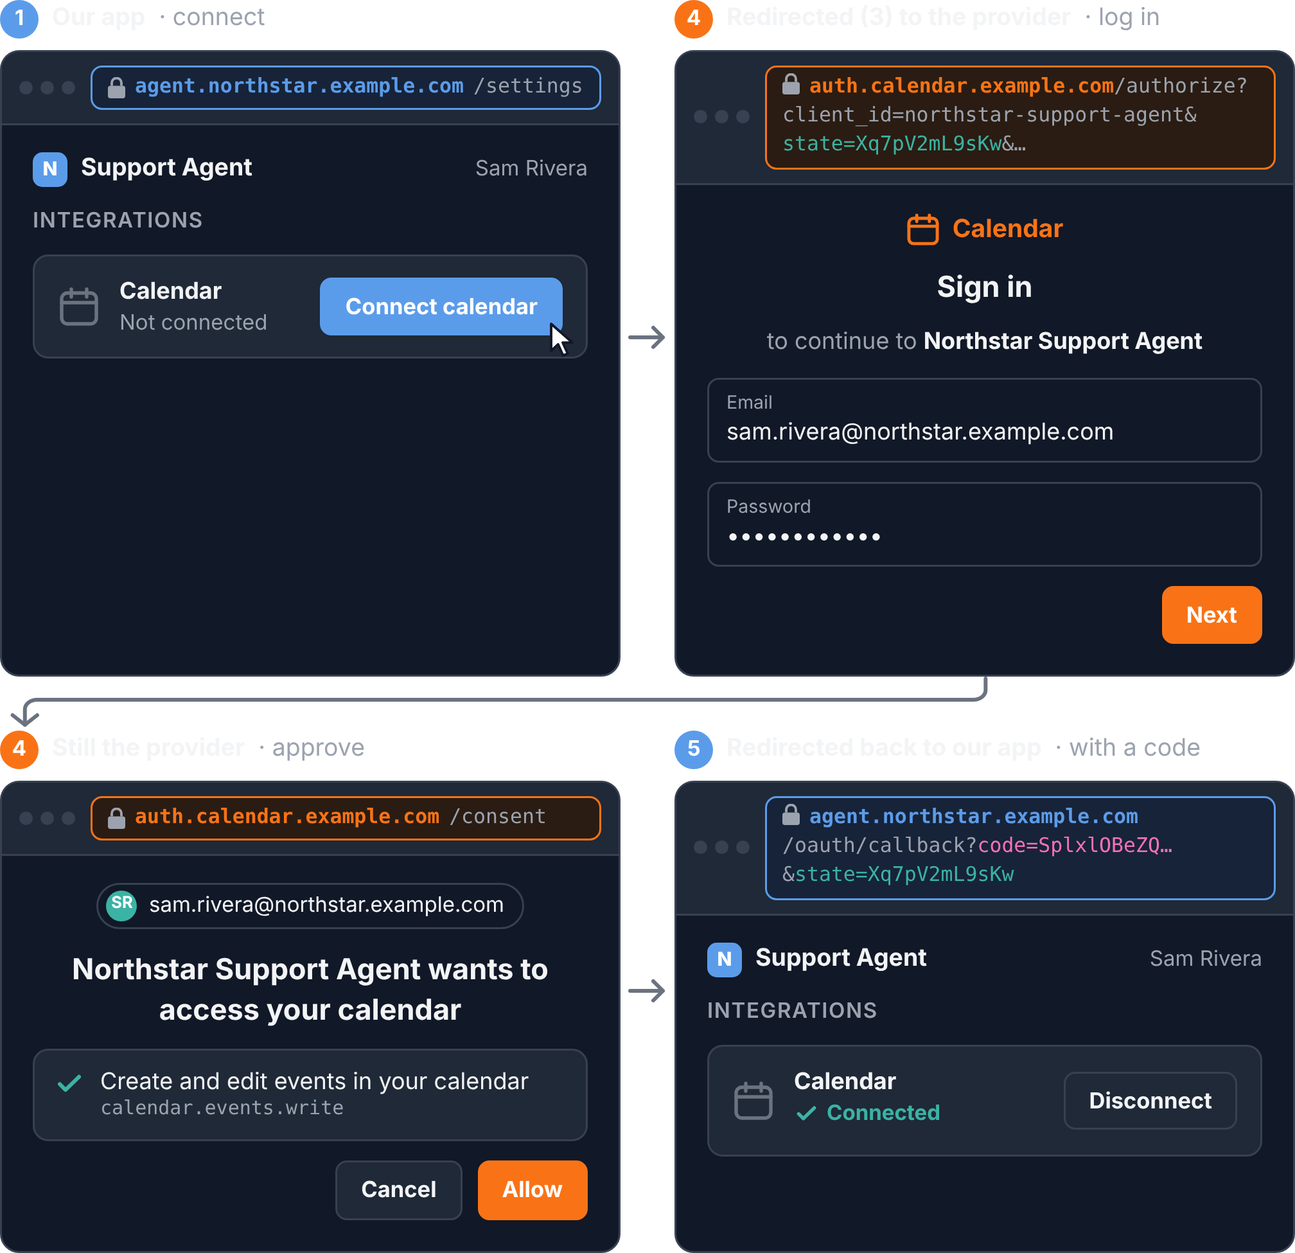
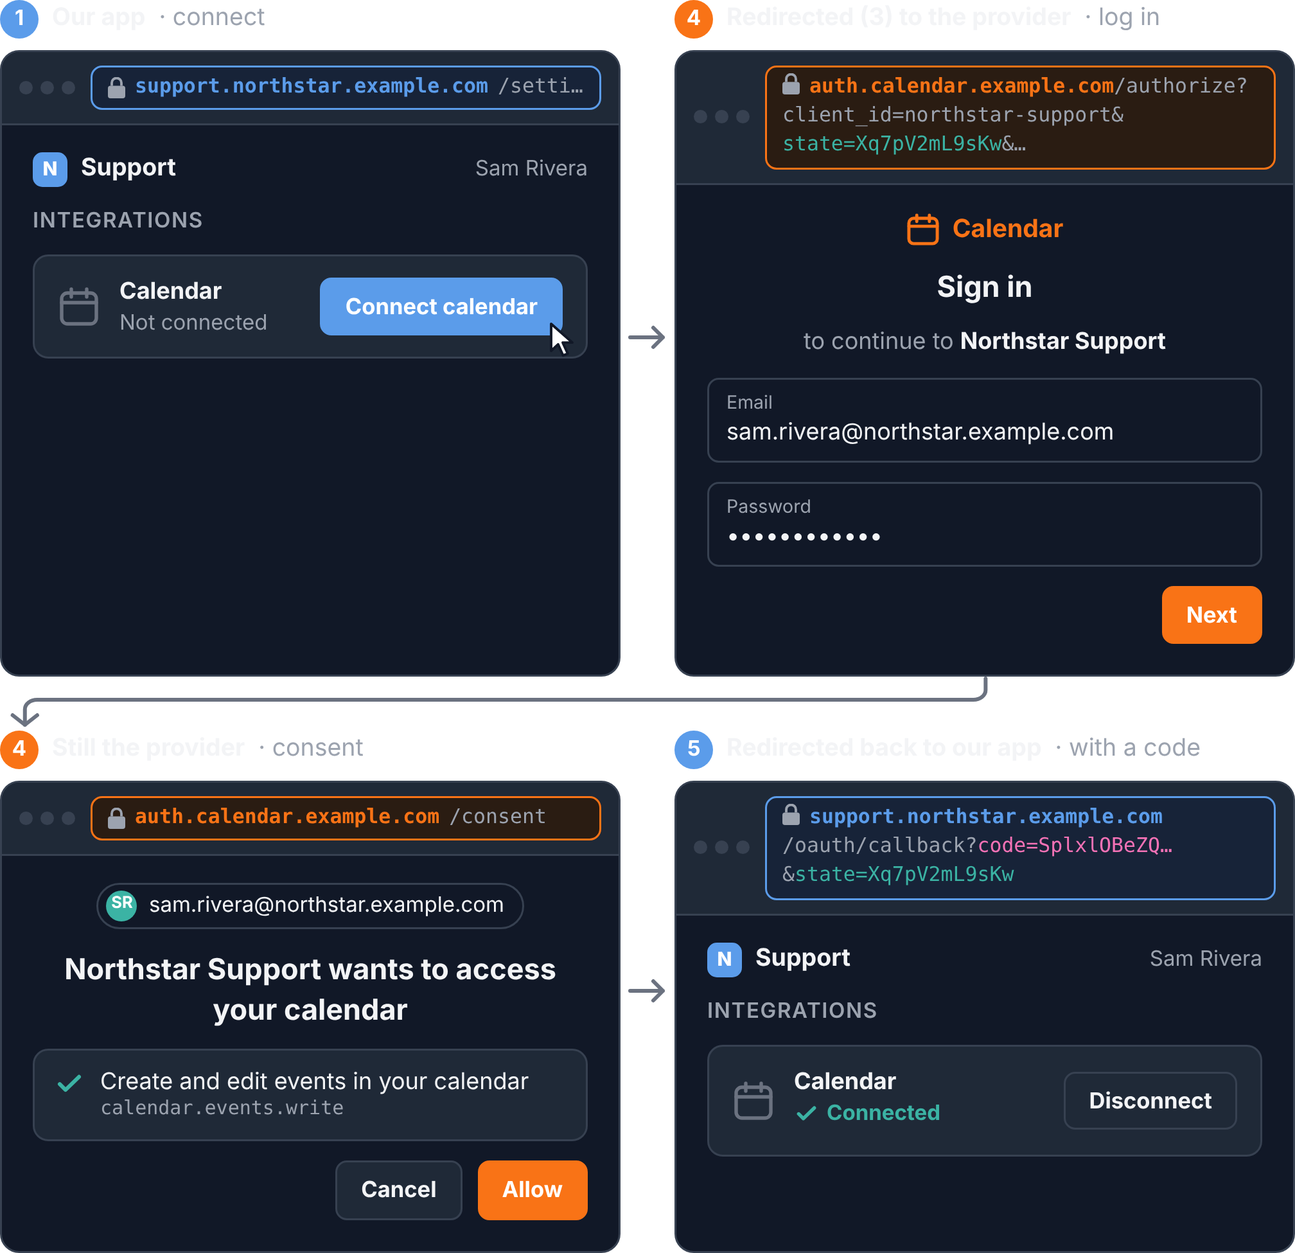
API auth post: one app as the caller instead of an agent (#352)
The agent added only one point, that the model never sees a credential,
and that belongs in the MCP follow-up. With one caller, our app, the post
needs no model/tools/app split.

Claude-Session: https://claude.ai/code/session_0197XX8Z68zqkfbQezN8rpHx

diff --git a/src/components/AuthMap.tsx b/src/components/AuthMap.tsx
@@ -1,9 +1,8 @@
 /**
- * The running example of api-keys-oauth-jwt as one top-to-bottom map: the
- * model (the LLM inside the support agent) picks a tool and its arguments, the tools (code)
- * hold the secrets and attach a credential to each call, and the calls go to
- * three systems, each authenticated its own way: the ticketing system by API
- * key, the CRM by an OAuth access token that is a JWT, and an advisor's
+ * The running example of api-keys-oauth-jwt as one top-to-bottom map: our
+ * app holds the secrets and attaches a credential to each call, and the calls
+ * go to three systems, each authenticated its own way: the ticketing system by
+ * API key, the CRM by an OAuth access token that is a JWT, and an advisor's
  * calendar by a token the advisor consented to.
  *
  * Each section of the post shows the same map with its part highlighted and
@@ -12,13 +11,13 @@
  * the server, no JavaScript.
  */
 import type { ReactNode } from 'react';
-import { color, Agent, Store, type Point } from '../remotion/shared';
+import { color, Store, type Point } from '../remotion/shared';
 import { Dim, Tag, ArrowMarker } from './map-parts';
 
-type NodeId = 'agent' | 'tools' | 'ticketing' | 'crm' | 'calendar';
+type NodeId = 'app' | 'ticketing' | 'crm' | 'calendar';
 type SystemId = Extract<NodeId, 'ticketing' | 'crm' | 'calendar'>;
-/** Who a box belongs to, which sets its outline: the model, our code, or someone else's system. */
-type Role = 'model' | 'code' | 'external';
+/** Who a box belongs to, which sets its outline: our code, or someone else's system. */
+type Role = 'code' | 'external';
 
 export interface Preset {
   /** Parts drawn at full strength; everything else is greyed out. Empty means everything. */
@@ -32,22 +31,22 @@ export const PRESETS = {
   overview: {
     focus: [],
     description:
-      'The running example as one map: the model, an LLM, picks a tool and its arguments. The tools, code, hold the secrets and attach a credential to each call: an API key for the ticketing system, an OAuth access token for the CRM, and a token the advisor consented to for the calendar.',
+      'The running example as one map: our app holds the secrets and attaches a credential to each call: an API key for the ticketing system, an OAuth access token for the CRM, and a token the advisor consented to for the calendar.',
   },
   'api-key': {
-    focus: ['tools', 'ticketing'],
+    focus: ['app', 'ticketing'],
     tags: [{ on: 'ticketing', text: 'Static' }],
     description: 'Highlighted: the ticketing system, which takes the same API key on every call until someone rotates it.',
   },
   'client-credentials': {
-    focus: ['tools', 'crm'],
+    focus: ['app', 'crm'],
     tags: [{ on: 'crm', text: 'One hour' }],
-    description: 'Highlighted: the CRM. The tools trade the client secret for an access token at its auth server, and send the token with every call for the hour it lives.',
+    description: 'Highlighted: the CRM. Our app trades the client secret for an access token at its auth server, and sends the token with every call for the hour it lives.',
   },
   'auth-code': {
-    focus: ['tools', 'calendar'],
+    focus: ['app', 'calendar'],
     tags: [{ on: 'calendar', text: 'Consent' }],
-    description: 'Highlighted: the calendar. The advisor consents once, and the tools keep a refresh token per advisor.',
+    description: 'Highlighted: the calendar. The advisor consents once, and our app keeps a refresh token per advisor.',
   },
   jwt: {
     focus: ['crm'],
@@ -55,23 +54,21 @@ export const PRESETS = {
     description: 'Highlighted: the CRM, whose API checks the access token, a JWT, on its own.',
   },
   errors: {
-    focus: ['tools', 'ticketing', 'crm', 'calendar'],
-    tags: [{ on: 'tools', text: 'Retry once' }],
-    description: 'Highlighted: the tools and the three systems, where a call fails with 401 or 403.',
+    focus: ['app', 'ticketing', 'crm', 'calendar'],
+    tags: [{ on: 'app', text: 'Retry once' }],
+    description: 'Highlighted: our app and the three systems, where a call fails with 401 or 403.',
   },
 } satisfies Record<string, Preset>;
 
 export type PresetName = keyof typeof PRESETS;
 
 const STROKE: Record<Role, string> = {
-  model: color('added'),
   code: color('node-border'),
   external: color('other'),
 };
 
 const NODES: Record<NodeId, { name: string; role: Role; detail: string[] }> = {
-  agent: { name: 'Model', role: 'model', detail: ['Picks a tool and its arguments'] },
-  tools: { name: 'Tools', role: 'code', detail: ['Hold the secrets', 'Attach one to each call'] },
+  app: { name: 'Our app', role: 'code', detail: ['Holds the secrets', 'Attaches one to each call'] },
   ticketing: { name: 'Ticketing system', role: 'external', detail: ['API key on every call', 'Valid until rotated'] },
   crm: { name: 'CRM', role: 'external', detail: ['Auth server: secret → token', 'API: checks the JWT itself'] },
   calendar: { name: 'Advisor’s calendar', role: 'external', detail: ['Advisor consents once', 'Refresh token per advisor'] },
@@ -111,9 +108,7 @@ const Calendar = ({ x, y }: Point) => (
 
 function NodeIcon({ id, at }: { id: NodeId; at: Point }): ReactNode {
   switch (id) {
-    case 'agent':
-      return <Agent {...at} scale={0.78} typing={1} />;
-    case 'tools':
+    case 'app':
       return <Store {...at} scale={0.62} />;
     case 'ticketing':
       return <Key {...at} />;
@@ -126,13 +121,13 @@ function NodeIcon({ id, at }: { id: NodeId; at: Point }): ReactNode {
 
 const W = 480;
 const PAD = 16;
-/** Boxes leave room on the left for the line from the tools to the three systems. */
+/** Boxes leave room on the left for the line from our app to the three systems. */
 const BOX = { x: 60, w: 404 };
 const TEXT_X = BOX.x + 84;
 const TITLE = 21;
 const DETAIL = 17;
 const GAP = 34;
-/** The line from the tools down to the systems, left of the boxes. */
+/** The line from our app down to the systems, left of the boxes. */
 const BUS_X = 28;
 
 export default function AuthMap({ preset, id }: { preset: PresetName; id: string }) {
@@ -141,12 +136,12 @@ export default function AuthMap({ preset, id }: { preset: PresetName; id: string
   const on = (n: NodeId) => all || p.focus.includes(n);
 
   let y = PAD + 14;
-  const order: NodeId[] = ['agent', 'tools', ...SYSTEMS];
+  const order: NodeId[] = ['app', ...SYSTEMS];
   const boxes = order.map((n, i) => {
     const h = 54 + NODES[n].detail.length * (DETAIL + 8);
     const b = { id: n, y, h };
     // The systems sit closer together: they hang off one line, not one after another.
-    y += h + (i < 2 ? GAP + 12 : 22);
+    y += h + (i < 1 ? GAP + 12 : 22);
     return b;
   });
   const height = y - 22 + PAD + 36;
@@ -162,19 +157,12 @@ export default function AuthMap({ preset, id }: { preset: PresetName; id: string
         <ArrowMarker id={marker} />
       </defs>
 
-      <Dim on={on('agent') && on('tools')} faded={0.3}>
-        <path d={`M${cx},${at.agent.y + at.agent.h} V${at.tools.y - 4}`} {...edge} markerEnd={`url(#${marker})`} />
-        <text x={cx + 12} y={(at.agent.y + at.agent.h + at.tools.y) / 2} dy="0.35em" fontSize={DETAIL} fontWeight={600} fill={color('text')}>
-          Tool call, no secret
-        </text>
-      </Dim>
-
-      {/* The trunk from the tools down the left margin, lit if any system is. */}
-      <Dim on={on('tools') && SYSTEMS.some(on)} faded={0.3}>
-        <path d={`M${BOX.x},${mid('tools')} H${BUS_X} V${mid('calendar')}`} {...edge} />
+      {/* The trunk from our app down the left margin, lit if any system is. */}
+      <Dim on={on('app') && SYSTEMS.some(on)} faded={0.3}>
+        <path d={`M${BOX.x},${mid('app')} H${BUS_X} V${mid('calendar')}`} {...edge} />
       </Dim>
       {SYSTEMS.map((s) => (
-        <Dim key={s} on={on('tools') && on(s)} faded={0.3}>
+        <Dim key={s} on={on('app') && on(s)} faded={0.3}>
           <path d={`M${BUS_X},${mid(s)} H${BOX.x - 6}`} {...edge} markerEnd={`url(#${marker})`} />
         </Dim>
       ))}
@@ -203,12 +191,12 @@ export default function AuthMap({ preset, id }: { preset: PresetName; id: string
         return <Tag key={t.on} x={BOX.x + BOX.w - width / 2 + 16} y={b.y} text={t.text} size={17} />;
       })}
 
-      <g transform={`translate(${cx - 190} ${height - 18})`} fontSize={18} fontWeight={600}>
-        {(['model', 'code', 'external'] as Role[]).map((r, i) => (
+      <g transform={`translate(${cx - 125} ${height - 18})`} fontSize={18} fontWeight={600}>
+        {(['code', 'external'] as Role[]).map((r, i) => (
           <g key={r} transform={`translate(${i * 125} 0)`}>
             <rect x={0} y={-14} width={16} height={16} rx={4} fill={color('node-bg')} stroke={STROKE[r]} strokeWidth={2.5} />
             <text x={24} y={0} fill={color('muted')}>
-              {{ model: 'LLM', code: 'Our code', external: 'Their API' }[r]}
+              {{ code: 'Our code', external: 'Their API' }[r]}
             </text>
           </g>
         ))}

diff --git a/src/components/AuthFigures.tsx b/src/components/AuthFigures.tsx
@@ -4,7 +4,7 @@
  * (client credentials for the CRM, authorization code for the advisor's
  * calendar), the two attacks state and PKCE stop, the advisor signing in through the bank's identity provider, and a failing call, 401
  * against 403, and the anatomy of the CRM's access token, a JWT. Same palette,
- * box style and outlines as the map: blue for the model, grey for our code,
+ * box style and outlines as the map: grey for our code,
  * orange for someone else's system, teal for a person, red for an attacker. Narrow enough to share one layout between phones and wide
  * screens. Static: rendered on the server, no JavaScript.
  *
@@ -17,10 +17,9 @@ import type { ReactNode } from 'react';
 import { color } from '../remotion/shared';
 import { ArrowMarker, Badge, Tag } from './map-parts';
 
-type Role = 'model' | 'code' | 'external' | 'human' | 'attacker';
+type Role = 'code' | 'external' | 'human' | 'attacker';
 
 const STROKE: Record<Role, string> = {
-  model: color('added'),
   code: color('node-border'),
   external: color('other'),
   human: color('ok'),
@@ -141,20 +140,18 @@ function ApiKey({ id }: { id: string }) {
       id={id}
       label={DESCRIPTIONS['api-key']}
       lanes={[
-        { name: 'Model', role: 'model', x: 72 },
-        { name: 'Tools', role: 'code', x: 240 },
-        { name: 'Ticketing', role: 'external', x: 408 },
+        { name: 'Our app', role: 'code', x: 120 },
+        { name: 'Ticketing', role: 'external', x: 360 },
       ]}
       rows={[
-        { from: 2, to: 1, label: 'API key, once' },
+        { from: 1, to: 0, label: 'API key, once' },
         { gap: 'On every call after that' },
-        { from: 0, to: 1, label: 'Tool call, no key' },
-        { from: 1, to: 2, label: 'Key in the header' },
-        { from: 2, label: 'Looks up the key', numbered: true },
-        { from: 2, to: 1, label: '201: ticket opened', reply: true },
+        { from: 0, to: 1, label: 'Key in the header' },
+        { from: 1, label: 'Looks up the key', numbered: true },
+        { from: 1, to: 0, label: '201: ticket opened', reply: true },
       ]}
       tag="Same key until rotated"
-      tagStep={5}
+      tagStep={4}
     />
   );
 }
@@ -165,7 +162,7 @@ function ClientCredentials({ id }: { id: string }) {
       id={id}
       label={DESCRIPTIONS['client-credentials']}
       lanes={[
-        { name: 'Tools', role: 'code', x: 72 },
+        { name: 'Our app', role: 'code', x: 72 },
         { name: 'Auth server', role: 'external', x: 240 },
         { name: 'CRM API', role: 'external', x: 408 },
       ]}
@@ -307,7 +304,7 @@ function ExpiredToken({ id }: { id: string }) {
       id={id}
       label={DESCRIPTIONS['expired-token']}
       lanes={[
-        { name: 'Tools', role: 'code', x: 72 },
+        { name: 'Our app', role: 'code', x: 72 },
         { name: 'Auth server', role: 'external', x: 240 },
         { name: 'CRM API', role: 'external', x: 408 },
       ]}
@@ -332,7 +329,7 @@ function MissingScope({ id }: { id: string }) {
       id={id}
       label={DESCRIPTIONS['missing-scope']}
       lanes={[
-        { name: 'Tools', role: 'code', x: 72 },
+        { name: 'Our app', role: 'code', x: 72 },
         { name: 'Auth server', role: 'external', x: 240 },
         { name: 'CRM API', role: 'external', x: 408 },
       ]}
@@ -377,7 +374,7 @@ const PARTS: Part[] = [
     encoded: 'eyJpc3Mi…',
     lines: [
       ['iss', 'auth.crm.example.com'],
-      ['sub', 'northstar-support-agent'],
+      ['sub', 'northstar-support'],
       ['aud', 'api.crm.example.com'],
       ['scope', 'contacts.read cases.write'],
       ['exp', 'in one hour'],
@@ -451,9 +448,9 @@ function JwtAnatomy({ id }: { id: string }) {
 
 export const DESCRIPTIONS = {
   'api-key':
-    'API key: the ticketing system issues our tools an API key once. On every call after that, the model calls a tool without the key, and the tool sends the key in a header; the ticketing system looks it up and opens the ticket. The same key works until someone rotates it.',
+    'API key: the ticketing system issues our app an API key once. On every call after that, our app sends the key in a header; the ticketing system looks it up and opens the ticket. The same key works until someone rotates it.',
   'client-credentials':
-    'Client credentials: the tools send the client ID and secret to the CRM’s auth server and get an access token valid for an hour. They send it as a bearer token to the CRM API, which fetches the auth server’s public keys once, checks the JWT with them and returns Alex’s account.',
+    'Client credentials: our app sends the client ID and secret to the CRM’s auth server and get an access token valid for an hour. It sends it as a bearer token to the CRM API, which fetches the auth server’s public keys once, checks the JWT with them and returns Alex’s account.',
   'authorization-code':
     'Authorization code: the advisor clicks Connect calendar in our app. Our app makes a new state, a PKCE verifier and its hash, the challenge, for this login, and redirects the advisor to the auth server with the state and the challenge. The advisor logs in and consents; the auth server sends a code back through the browser, and our app checks the state. It trades code and verifier for an access and a refresh token; the auth server checks the verifier first. Our app then calls the calendar. An hour later it trades the refresh token for a new pair, without the advisor.',
   'swapped-code':
@@ -461,11 +458,11 @@ export const DESCRIPTIONS = {
   'stolen-code':
     'A stolen code: the advisor’s code leaks to the attacker. The attacker starts their own Connect calendar flow in our app, gets their own state and challenge, and sends our callback the stolen code with their own state. The state matches, so our app trades the code with the attacker’s verifier. The auth server checks the verifier against the advisor’s challenge, finds no match and answers 400 invalid_grant: no tokens.',
   'expired-token':
-    'An expired token: the tools call the CRM, which checks the token’s exp, finds it passed and answers 401 invalid_token. The tools fetch a new access token from the auth server with the client ID and secret, retry once and get Alex’s account.',
+    'An expired token: our app calls the CRM, which checks the token’s exp, finds it passed and answers 401 invalid_token. Our app fetches a new access token from the auth server with the client ID and secret, retry once and get Alex’s account.',
   'missing-scope':
-    'A missing scope: the tools try to unlock Alex’s account. The CRM checks the token’s scope, finds only contacts.read and answers 403 insufficient_scope. A new token from the auth server has the same scopes, and the retry gets another 403.',
+    'A missing scope: our app tries to unlock Alex’s account. The CRM checks the token’s scope, finds only contacts.read and answers 403 insufficient_scope. A new token from the auth server has the same scopes, and the retry gets another 403.',
   'sign-in':
-    'Signing in: the advisor opens our app, which redirects them to the bank’s identity provider, Keycloak. They log in there with password and second factor, and Keycloak starts a session. It sends a code back through the browser; our app trades it with its verifier for an ID token and an access token, and checks the ID token. Later, when the advisor connects their calendar, the calendar’s auth server sends them to Keycloak to log in. Keycloak finds its session, asks for no password and tells the calendar’s auth server who the advisor is; only the consent screen is left.',
+    'Logging in: the advisor opens our app, which redirects them to the bank’s identity provider, Keycloak. They log in there with password and second factor, and Keycloak starts a session. It sends a code back through the browser; our app trades it with its verifier for an ID token and an access token, and checks the ID token. Later, when the advisor connects their calendar, the calendar’s auth server sends them to Keycloak to log in. Keycloak finds its session, asks for no password and tells the calendar’s auth server who the advisor is; only the consent screen is left.',
   jwt: 'The CRM’s access token is a JWT in three dot-separated parts. The header names the algorithm and the key; the payload holds the claims iss, sub, aud, scope and exp, readable by anyone; the signature over both is made with the auth server’s private key.',
 } as const;
 

diff --git a/scripts/mockups/oauth-redirect.html b/scripts/mockups/oauth-redirect.html
@@ -1,7 +1,7 @@
 <!doctype html>
 <!--
   Mockup of what the advisor sees in the authorization code flow
-  (api-keys-oauth-jwt, "Authorization code: the agent on someone's behalf"):
+  (api-keys-oauth-jwt, "Authorization code: our app on someone's behalf"):
   four browser windows, numbered with the steps of the post's sequence figure.
   Our app's domain is in the colour of "Our backend" in that figure, the auth
   server's in the colour of "Auth server", so the hop between sites shows in
@@ -190,10 +190,10 @@
     <div class="window">
       <div class="chrome">
         <div class="dots"><i></i><i></i><i></i></div>
-        <div class="url mono"><svg viewBox="0 0 9 11" fill="currentColor"><rect x="0" y="4.5" width="9" height="6.5" rx="1.3"/><path d="M2 4.5V3a2.5 2.5 0 0 1 5 0v1.5" fill="none" stroke="currentColor" stroke-width="1.3"/></svg><span class="host">agent.northstar.example.com</span><span class="rest">/settings</span></div>
+        <div class="url mono"><svg viewBox="0 0 9 11" fill="currentColor"><rect x="0" y="4.5" width="9" height="6.5" rx="1.3"/><path d="M2 4.5V3a2.5 2.5 0 0 1 5 0v1.5" fill="none" stroke="currentColor" stroke-width="1.3"/></svg><span class="host">support.northstar.example.com</span><span class="rest">/settings</span></div>
       </div>
       <div class="content">
-        <div class="appbar"><span class="logo">N</span>Support Agent<span class="who">Sam Rivera</span></div>
+        <div class="appbar"><span class="logo">N</span>Support<span class="who">Sam Rivera</span></div>
         <h4>Integrations</h4>
         <div class="card">
           <svg class="cal" width="22" height="22" viewBox="0 0 22 22" fill="none" stroke="currentColor" stroke-width="1.8" stroke-linecap="round"><rect x="2" y="4" width="18" height="16" rx="3"/><path d="M2 9h18M7 2v4M15 2v4"/></svg>
@@ -214,12 +214,12 @@
     <div class="window">
       <div class="chrome">
         <div class="dots"><i></i><i></i><i></i></div>
-        <div class="url mono wrap"><span style="white-space:nowrap"><svg viewBox="0 0 9 11" fill="currentColor"><rect x="0" y="4.5" width="9" height="6.5" rx="1.3"/><path d="M2 4.5V3a2.5 2.5 0 0 1 5 0v1.5" fill="none" stroke="currentColor" stroke-width="1.3"/></svg><span class="host">auth.calendar.example.com</span></span>/authorize<wbr>?client_id=northstar-support-agent&amp;<wbr><span class="state">state=Xq7pV2mL9sKw</span>&amp;…</div>
+        <div class="url mono wrap"><span style="white-space:nowrap"><svg viewBox="0 0 9 11" fill="currentColor"><rect x="0" y="4.5" width="9" height="6.5" rx="1.3"/><path d="M2 4.5V3a2.5 2.5 0 0 1 5 0v1.5" fill="none" stroke="currentColor" stroke-width="1.3"/></svg><span class="host">auth.calendar.example.com</span></span>/authorize<wbr>?client_id=northstar-support&amp;<wbr><span class="state">state=Xq7pV2mL9sKw</span>&amp;…</div>
       </div>
       <div class="content center">
         <div class="provider"><svg width="18" height="18" viewBox="0 0 22 22" fill="none" stroke="currentColor" stroke-width="2" stroke-linecap="round"><rect x="2" y="4" width="18" height="16" rx="3"/><path d="M2 9h18M7 2v4M15 2v4"/></svg>Calendar</div>
         <p class="title">Sign in</p>
-        <div class="muted">to continue to <b style="color:var(--text)">Northstar Support Agent</b></div>
+        <div class="muted">to continue to <b style="color:var(--text)">Northstar Support</b></div>
         <div class="field"><span class="k">Email</span>sam.rivera@northstar.example.com</div>
         <div class="field"><span class="k">Password</span>••••••••••••</div>
         <div class="row"><span class="btn primary-theirs">Next</span></div>
@@ -231,7 +231,7 @@
 
   <!-- 4: the auth server, consent -->
   <div class="step theirs">
-    <div class="label"><span class="num">4</span>Still the provider <span class="where">· approve</span></div>
+    <div class="label"><span class="num">4</span>Still the provider <span class="where">· consent</span></div>
     <div class="window">
       <div class="chrome">
         <div class="dots"><i></i><i></i><i></i></div>
@@ -239,7 +239,7 @@
       </div>
       <div class="content center">
         <span class="chip"><span class="avatar">SR</span>sam.rivera@northstar.example.com</span>
-        <p class="title">Northstar Support Agent wants to access your calendar</p>
+        <p class="title">Northstar Support wants to access your calendar</p>
         <div class="perm">
           <svg width="16" height="16" viewBox="0 0 16 16" fill="none" stroke="var(--ok)" stroke-width="2" stroke-linecap="round" stroke-linejoin="round"><path d="M3 8.4l3 3L13 4.6"/></svg>
           <div>Create and edit events in your calendar<span class="scope mono">calendar.events.write</span></div>
@@ -257,10 +257,10 @@
     <div class="window">
       <div class="chrome">
         <div class="dots"><i></i><i></i><i></i></div>
-        <div class="url mono wrap"><span style="white-space:nowrap"><svg viewBox="0 0 9 11" fill="currentColor"><rect x="0" y="4.5" width="9" height="6.5" rx="1.3"/><path d="M2 4.5V3a2.5 2.5 0 0 1 5 0v1.5" fill="none" stroke="currentColor" stroke-width="1.3"/></svg><span class="host">agent.northstar.example.com</span></span><wbr>/oauth/callback?<span class="code">code=SplxlOBeZQ…</span>&amp;<span class="state">state=Xq7pV2mL9sKw</span></div>
+        <div class="url mono wrap"><span style="white-space:nowrap"><svg viewBox="0 0 9 11" fill="currentColor"><rect x="0" y="4.5" width="9" height="6.5" rx="1.3"/><path d="M2 4.5V3a2.5 2.5 0 0 1 5 0v1.5" fill="none" stroke="currentColor" stroke-width="1.3"/></svg><span class="host">support.northstar.example.com</span></span><wbr>/oauth/callback?<span class="code">code=SplxlOBeZQ…</span>&amp;<span class="state">state=Xq7pV2mL9sKw</span></div>
       </div>
       <div class="content">
-        <div class="appbar"><span class="logo">N</span>Support Agent<span class="who">Sam Rivera</span></div>
+        <div class="appbar"><span class="logo">N</span>Support<span class="who">Sam Rivera</span></div>
         <h4>Integrations</h4>
         <div class="card">
           <svg class="cal" width="22" height="22" viewBox="0 0 22 22" fill="none" stroke="currentColor" stroke-width="1.8" stroke-linecap="round"><rect x="2" y="4" width="18" height="16" rx="3"/><path d="M2 9h18M7 2v4M15 2v4"/></svg>
